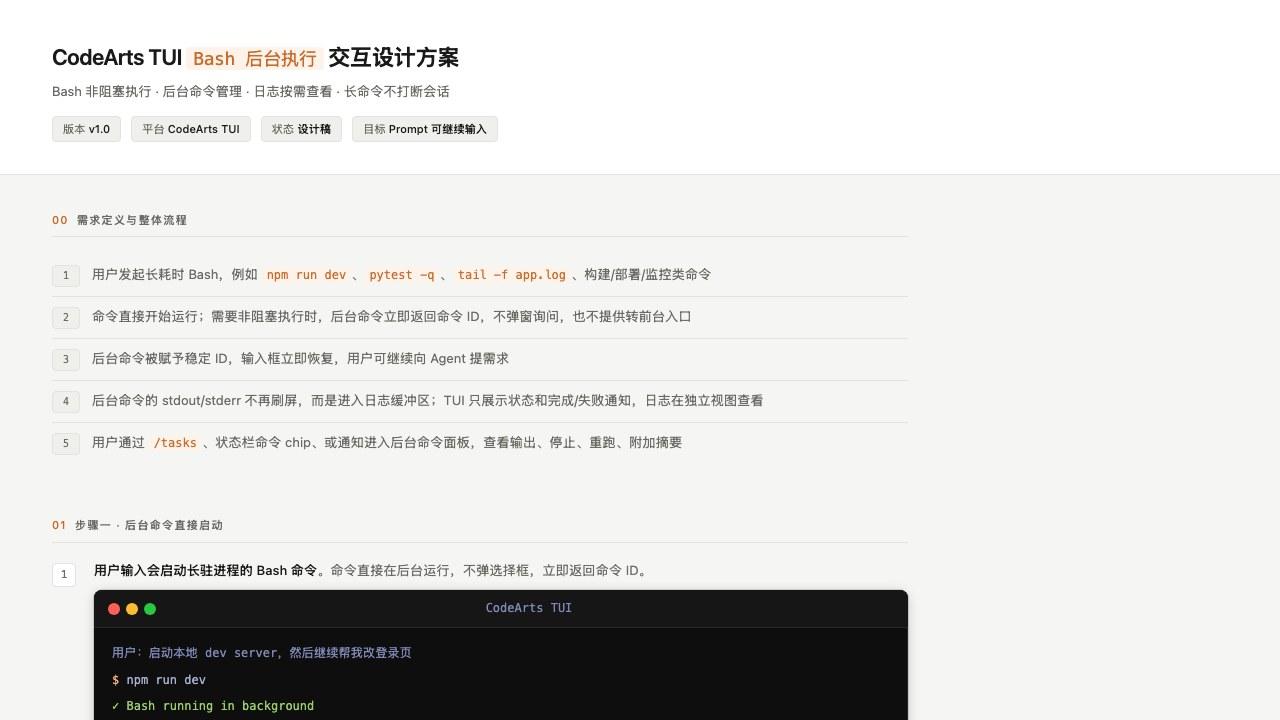
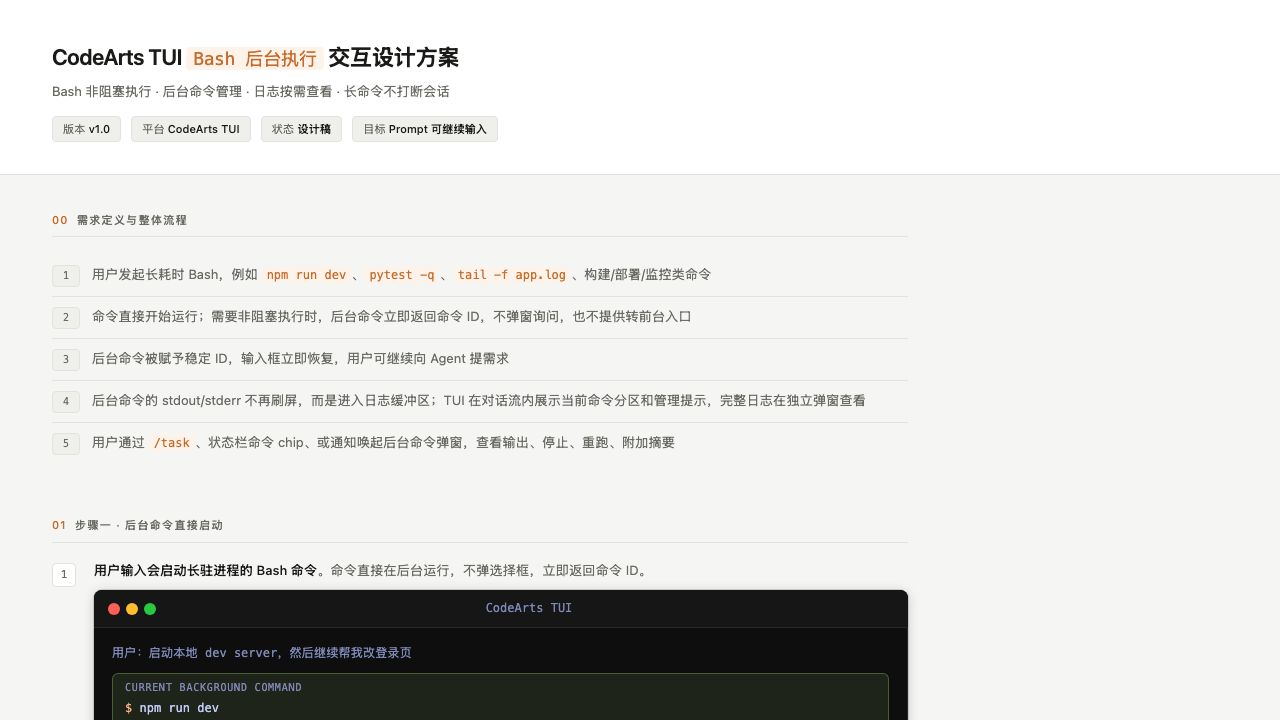
Refine Bash background command TUI panels

Changed region(s): [[0.1562, 0.55, 0.6875, 0.6417], [0.0938, 0.9167, 0.25, 1.0]]

diff --git a/codearts-bash-background-design.html b/codearts-bash-background-design.html
@@ -201,6 +201,7 @@
   .tui-dot.g { background:#28c840; }
   .tui-wt { flex:1; text-align:center; font-size:12px; color:var(--t-dim); }
   .tui-main { display:flex; min-height:272px; }
+  .tui-main { position:relative; }
   .tui-msgs {
     flex:1;
     min-width:0;
@@ -255,6 +256,119 @@
   .tc-blue { color:var(--t-blue); }
   .tc-purple { color:var(--t-purple); }
   .tm-gap { height:5px; }
+  .t-panel {
+    border:1px solid var(--t-border2);
+    background:var(--t-bg3);
+    border-radius:6px;
+    padding:9px 12px;
+    margin:4px 0 8px;
+  }
+  .t-panel.command {
+    background:#1f241b;
+    border-color:rgba(158,206,106,.34);
+  }
+  .t-panel.hint {
+    background:#171d2b;
+    border-color:rgba(92,156,245,.32);
+  }
+  .t-panel.warn {
+    background:#262116;
+    border-color:rgba(224,175,104,.34);
+  }
+  .t-panel.danger {
+    background:#26191f;
+    border-color:rgba(247,118,142,.34);
+  }
+  .t-panel-title {
+    font-size:10px;
+    line-height:1;
+    letter-spacing:.08em;
+    text-transform:uppercase;
+    color:var(--t-dim);
+    margin-bottom:6px;
+  }
+  .t-command-line {
+    font-size:12px;
+    line-height:1.55;
+    color:var(--t-white);
+  }
+  .t-panel-meta {
+    margin-top:4px;
+    font-size:11px;
+    color:var(--t-dim);
+    line-height:1.6;
+  }
+  .task-scrim {
+    position:absolute;
+    inset:0;
+    background:rgba(14,14,14,.66);
+    display:flex;
+    align-items:center;
+    justify-content:center;
+    padding:22px;
+  }
+  .task-modal {
+    width:min(600px,100%);
+    border:1px solid var(--t-border2);
+    background:var(--t-bg2);
+    border-radius:7px;
+    box-shadow:0 18px 48px rgba(0,0,0,.42);
+    overflow:hidden;
+  }
+  .task-modal.small { width:min(620px,100%); }
+  .task-head {
+    display:flex;
+    align-items:center;
+    justify-content:space-between;
+    gap:12px;
+    padding:10px 12px;
+    border-bottom:1px solid var(--t-border);
+    color:var(--t-white);
+    font-size:12px;
+  }
+  .task-sub { color:var(--t-dim); font-size:11px; }
+  .task-body { padding:8px 10px 10px; }
+  .task-row {
+    display:grid;
+    grid-template-columns:42px 1fr 74px 54px;
+    gap:10px;
+    align-items:center;
+    min-height:30px;
+    padding:5px 8px;
+    border-radius:4px;
+    color:var(--t-dim);
+    font-size:12px;
+  }
+  .task-row.head {
+    min-height:24px;
+    color:var(--t-muted);
+    font-size:10px;
+    text-transform:uppercase;
+    letter-spacing:.07em;
+  }
+  .task-row.active {
+    background:rgba(250,178,131,.16);
+    color:var(--t-white);
+  }
+  .task-log {
+    height:150px;
+    overflow:hidden;
+    padding:8px 10px;
+    background:var(--t-bg);
+    border:1px solid var(--t-border);
+    border-radius:5px;
+    margin:8px 10px 10px;
+  }
+  .task-actions {
+    border-top:1px solid var(--t-border);
+    padding:8px 12px;
+    color:var(--t-dim);
+    font-size:11px;
+    display:flex;
+    justify-content:space-between;
+    gap:12px;
+    flex-wrap:wrap;
+  }
   .t-cursor {
     display:inline-block;
     width:7px;
@@ -373,11 +487,11 @@
       </div>
       <div class="flow-row">
         <div class="flow-n">4</div>
-        <div class="flow-b">后台命令的 stdout/stderr 不再刷屏，而是进入日志缓冲区；TUI 只展示状态和完成/失败通知，日志在独立视图查看</div>
+        <div class="flow-b">后台命令的 stdout/stderr 不再刷屏，而是进入日志缓冲区；TUI 在对话流内展示当前命令分区和管理提示，完整日志在独立弹窗查看</div>
       </div>
       <div class="flow-row">
         <div class="flow-n">5</div>
-        <div class="flow-b">用户通过 <code>/tasks</code>、状态栏命令 chip、或通知进入后台命令面板，查看输出、停止、重跑、附加摘要</div>
+        <div class="flow-b">用户通过 <code>/task</code>、状态栏命令 chip、或通知唤起后台命令弹窗，查看输出、停止、重跑、附加摘要</div>
       </div>
     </div>
   </div>
@@ -396,16 +510,21 @@
           <div class="tui-main single">
             <div class="tui-msgs">
               <div class="tm tc-dim">用户：启动本地 dev server，然后继续帮我改登录页</div>
-              <div class="tm"><span class="tc-orange">$</span> npm run dev</div>
-              <div class="tm tc-green">✓ Bash running in background</div>
-              <div class="tm tc-dim">  #12  npm run dev  running  0s</div>
-              <div class="tm tc-dim">  Output is being recorded. Use /tasks to view or stop it.</div>
+              <div class="t-panel command">
+                <div class="t-panel-title">Current background command</div>
+                <div class="t-command-line"><span class="tc-orange">$</span> npm run dev</div>
+                <div class="t-panel-meta"><span class="tc-green">✓ running</span> · #12 · 0s · output is being recorded</div>
+              </div>
+              <div class="t-panel hint">
+                <div class="t-panel-title">Manage</div>
+                <div class="t-command-line">Use <span class="tc-blue">/task</span> to view logs, stop, rerun, or attach summary.</div>
+              </div>
             </div>
           </div>
           <div class="tui-input"><div class="tui-iline">❯ 启动 dev server，然后继续改登录页<span class="t-cursor"></span></div></div>
           <div class="tui-status">
             <div class="tui-sl"><span class="agent-lbl">Agent</span><span>Bash 命令已启动</span></div>
-            <div class="tui-sr"><span>无弹窗</span><span>不中断自动执行</span></div>
+            <div class="tui-sr"><span>启动不弹窗</span><span>管理用 /task</span></div>
           </div>
         </div>
         <div class="step-note">原则：命令启动和后台化不增加额外确认层；只有危险命令、权限升级、外部副作用等安全类决策仍需确认。</div>
@@ -426,9 +545,15 @@
           </div>
           <div class="tui-main single">
             <div class="tui-msgs">
-              <div class="tm tc-green">✓ Bash running in background</div>
-              <div class="tm tc-dim">  #12  npm run dev  running  18s</div>
-              <div class="tm tc-dim">  Output is being recorded.</div>
+              <div class="t-panel command">
+                <div class="t-panel-title">Current background command</div>
+                <div class="t-command-line"><span class="tc-orange">$</span> npm run dev</div>
+                <div class="t-panel-meta"><span class="tc-green">✓ running</span> · #12 · 18s · output recorded in buffer</div>
+              </div>
+              <div class="t-panel hint">
+                <div class="t-panel-title">Management hint</div>
+                <div class="t-command-line">Open <span class="tc-blue">/task</span> for output, stop, rerun, and attach summary.</div>
+              </div>
               <div class="tm-gap"></div>
               <div class="tm tc-dim">Agent：服务已在后台运行。我继续检查登录页结构。</div>
               <div class="tm"><span class="tc-orange">$</span> sed -n '1,220p' src/Login.tsx</div>
@@ -437,7 +562,7 @@
           <div class="tui-input"><div class="tui-iline">❯ 继续，把登录按钮状态也整理一下<span class="t-cursor"></span></div></div>
           <div class="tui-status">
             <div class="tui-sl"><span class="agent-lbl">Bash</span><span>#12 running</span></div>
-            <div class="tui-sr"><span><span class="t-kbd">/tasks</span> 查看</span><span><span class="t-kbd">Ctrl+C</span> 仅中断当前前台输入</span></div>
+            <div class="tui-sr"><span><span class="t-kbd">/task</span> 管理</span><span><span class="t-kbd">Ctrl+C</span> 仅中断当前前台输入</span></div>
           </div>
         </div>
         <div class="step-note">关键点：<b>Ctrl+C 不默认杀后台命令</b>。停止后台命令必须从命令列表或独立详情视图明确执行，避免误杀 dev server 或部署命令。</div>
@@ -446,11 +571,11 @@
   </div>
 
   <div class="section">
-    <div class="section-title"><span class="num">03</span> &nbsp;步骤三 · 后台命令列表与独立日志视图</div>
+    <div class="section-title"><span class="num">03</span> &nbsp;步骤三 · /task 弹窗与独立日志视图</div>
     <div class="step">
       <div class="step-num">3</div>
       <div class="step-content">
-        <div class="step-label"><b>用户输入 <code>/tasks</code> 或点击状态栏命令 chip</b>，打开后台命令列表。列表只负责浏览命令状态；选择命令后进入独立日志视图。</div>
+        <div class="step-label"><b>用户输入 <code>/task</code> 或点击状态栏命令 chip</b>，覆盖式打开后台命令弹窗。弹窗不写入对话流，列表负责浏览状态，选择命令后在弹窗内切到日志视图。</div>
         <div class="tui-wrap">
           <div class="tui-bar">
             <div class="tui-dots"><span class="tui-dot r"></span><span class="tui-dot y"></span><span class="tui-dot g"></span></div>
@@ -458,17 +583,28 @@
           </div>
           <div class="tui-main single">
             <div class="tui-msgs">
-              <div class="tm"><span class="tc-orange">❯</span> /tasks</div>
-              <div class="tm tc-white">Background commands</div>
-              <div class="tm tc-dim">────────────────────────────────────────────────────────</div>
-              <div class="tm tc-orange">› #12  npm run dev        running  04:28</div>
-              <div class="tm tc-dim">  #11  pytest -q          failed   01:12</div>
-              <div class="tm tc-dim">  #10  pnpm build         done     00:46</div>
-              <div class="tm tc-dim">────────────────────────────────────────────────────────</div>
-              <div class="tm tc-dim">Enter view output · A attach summary · S stop · R rerun · Esc back</div>
+              <div class="tm tc-dim">Agent：我继续整理登录页错误态。</div>
+              <div class="tm tc-dim">用户输入 /task 后，当前对话流保持在后方，不插入命令列表。</div>
+            </div>
+            <div class="task-scrim">
+              <div class="task-modal">
+                <div class="task-head">
+                  <span>Background commands</span>
+                  <span class="task-sub">/task · 3 commands</span>
+                </div>
+                <div class="task-body">
+                  <div class="task-row head"><span>ID</span><span>Command</span><span>Status</span><span>Time</span></div>
+                  <div class="task-row active"><span class="tc-orange">#12</span><span>npm run dev</span><span class="tc-green">running</span><span>04:28</span></div>
+                  <div class="task-row"><span>#11</span><span>pytest -q</span><span class="tc-red">failed</span><span>01:12</span></div>
+                  <div class="task-row"><span>#10</span><span>pnpm build</span><span class="tc-green">done</span><span>00:46</span></div>
+                </div>
+                <div class="task-actions">
+                  <span>Enter logs</span><span>A attach summary</span><span>S stop</span><span>R rerun</span><span>Esc close</span>
+                </div>
+              </div>
             </div>
           </div>
-          <div class="tui-input"><div class="tui-iline">❯ /tasks<span class="t-cursor"></span></div></div>
+          <div class="tui-input"><div class="tui-iline">❯ /task<span class="t-cursor"></span></div></div>
           <div class="tui-status">
             <div class="tui-sl"><span class="agent-lbl">Bash</span><span>命令列表</span></div>
             <div class="tui-sr"><span>#12 selected</span><span>3 total</span></div>
@@ -477,20 +613,29 @@
         <div class="tui-wrap" style="margin-top:16px;">
           <div class="tui-bar">
             <div class="tui-dots"><span class="tui-dot r"></span><span class="tui-dot y"></span><span class="tui-dot g"></span></div>
-            <div class="tui-wt">CodeArts TUI · Bash / #12 / logs</div>
+            <div class="tui-wt">CodeArts TUI · /task / #12 / logs</div>
           </div>
           <div class="tui-main single">
             <div class="tui-msgs">
-              <div class="tm"><span class="tc-orange">❯</span> /tasks #12 logs</div>
-              <div class="tm tc-white">#12  npm run dev  running  04:28</div>
-              <div class="tm tc-dim">────────────────────────────────────────────────────────</div>
-              <div class="tm"><span class="tc-dim">00:01</span>  VITE v6.1.0 ready in 428 ms</div>
-              <div class="tm"><span class="tc-dim">00:03</span>  GET /src/main.tsx 200</div>
-              <div class="tm"><span class="tc-dim">00:07</span>  hmr update /src/Login.tsx</div>
-              <div class="tm"><span class="tc-dim">00:12</span>  watching files ...</div>
-              <div class="tm"><span class="tc-dim">04:28</span>  process still running</div>
-              <div class="tm tc-dim">────────────────────────────────────────────────────────</div>
-              <div class="tm tc-dim">Esc back · A attach summary · S stop command</div>
+              <div class="tm tc-dim">后方仍是原对话流；日志详情在 /task 弹窗内切换。</div>
+            </div>
+            <div class="task-scrim">
+              <div class="task-modal small">
+                <div class="task-head">
+                  <span>#12 npm run dev</span>
+                  <span class="task-sub">running · 04:28</span>
+                </div>
+                <div class="task-log">
+                  <div class="tm"><span class="tc-dim">00:01</span>  VITE v6.1.0 ready in 428 ms</div>
+                  <div class="tm"><span class="tc-dim">00:03</span>  GET /src/main.tsx 200</div>
+                  <div class="tm"><span class="tc-dim">00:07</span>  hmr update /src/Login.tsx</div>
+                  <div class="tm"><span class="tc-dim">00:12</span>  watching files ...</div>
+                  <div class="tm"><span class="tc-dim">04:28</span>  process still running</div>
+                </div>
+                <div class="task-actions">
+                  <span>Esc back to list</span><span>A attach summary</span><span>S stop command</span>
+                </div>
+              </div>
             </div>
           </div>
           <div class="tui-input"><div class="tui-iline">❯ <span class="t-cursor"></span></div></div>
@@ -499,7 +644,7 @@
             <div class="tui-sr"><span><span class="t-kbd">Esc</span> 返回</span><span><span class="t-kbd">S</span> stop</span></div>
           </div>
         </div>
-        <div class="step-note">命令列表和日志详情分开：列表用于快速扫描，日志视图用于阅读完整输出，不把日志嵌在表格或对话流中。</div>
+        <div class="step-note">命令列表和日志详情分开，但都在 <code>/task</code> 弹窗里完成：列表用于快速扫描，日志视图用于阅读完整输出，不把列表或日志塞进对话流。</div>
       </div>
     </div>
   </div>
@@ -520,9 +665,11 @@
               <div class="tm"><span class="tc-orange">$</span> pytest tests/e2e --headed</div>
               <div class="tm tc-dim">collecting tests/login.spec.ts ...</div>
               <div class="tm tc-dim">chromium started · running login flow</div>
-              <div class="tm tc-yellow">● Bash has been running for 15s</div>
-              <div class="tm tc-dim">  Press Ctrl+B to run it in the background.</div>
-              <div class="tm tc-dim">  It will keep running in front until you do.</div>
+              <div class="t-panel warn">
+                <div class="t-panel-title">Long-running foreground command</div>
+                <div class="t-command-line"><span class="tc-yellow">●</span> Bash has been running for 15s</div>
+                <div class="t-panel-meta">Press <span class="tc-white">Ctrl+B</span> to send it to background. It keeps running in front until you do.</div>
+              </div>
             </div>
           </div>
           <div class="tui-input"><div class="tui-iline">❯ 继续检查登录页截图差异<span class="t-cursor"></span></div></div>
@@ -542,7 +689,7 @@
       <div class="step">
         <div class="step-num">5a</div>
         <div class="step-content">
-          <div class="step-label"><b>完成时不打断当前输入</b>，只在当前对话流中插入轻量通知，并允许一键把摘要附加给 Agent。</div>
+          <div class="step-label"><b>完成时不打断当前输入</b>，在当前对话流中插入轻量信息分区，并允许一键把摘要附加给 Agent。</div>
           <div class="tui-wrap">
           <div class="tui-bar">
             <div class="tui-dots"><span class="tui-dot r"></span><span class="tui-dot y"></span><span class="tui-dot g"></span></div>
@@ -551,9 +698,11 @@
             <div class="tui-main single">
               <div class="tui-msgs">
                 <div class="tm tc-dim">Agent：我正在整理登录页错误态。</div>
-                <div class="tm tc-green">✓ Background command completed</div>
-                <div class="tm tc-dim">  #10  pnpm build  done  46s</div>
-                <div class="tm tc-dim">  dist/ generated. Press A to attach summary.</div>
+                <div class="t-panel command">
+                  <div class="t-panel-title">Background command completed</div>
+                  <div class="t-command-line"><span class="tc-green">✓</span> #10 pnpm build</div>
+                  <div class="t-panel-meta">done · 46s · dist/ generated · Press A to attach summary</div>
+                </div>
                 <div class="tm tc-dim">用户仍可继续输入，通知不会抢焦点。</div>
               </div>
             </div>
@@ -576,10 +725,15 @@
           </div>
             <div class="tui-main single">
               <div class="tui-msgs">
-                <div class="tm tc-red">✗ Background command failed</div>
-                <div class="tm tc-dim">  #11  pytest -q  failed  01:12</div>
-                <div class="tm tc-dim">  2 failed · LoginButton disabled state mismatch</div>
-                <div class="tm tc-dim">  Enter view output · A attach summary · R rerun</div>
+                <div class="t-panel danger">
+                  <div class="t-panel-title">Background command failed</div>
+                  <div class="t-command-line"><span class="tc-red">✗</span> #11 pytest -q</div>
+                  <div class="t-panel-meta">failed · 01:12 · 2 failed · LoginButton disabled state mismatch</div>
+                </div>
+                <div class="t-panel hint">
+                  <div class="t-panel-title">Next actions</div>
+                  <div class="t-command-line">Enter view logs · A attach summary · R rerun · /task manage</div>
+                </div>
               </div>
             </div>
             <div class="tui-input"><div class="tui-iline">❯ A<span class="t-cursor"></span></div></div>
@@ -606,7 +760,7 @@
           <tr><td>前台转后台</td><td>前台 Bash 执行超过 15 秒仍未结束，且进程仍存活或持续输出</td><td>只提示可按 <span class="kbd">Ctrl+B</span> 转入后台，不自动切换</td></tr>
           <tr><td>日志策略</td><td>stdout/stderr 进入输出缓冲；列表不展示输出，详情视图按需读取</td><td>按 <span class="kbd">Enter</span> 进入独立输出视图</td></tr>
           <tr><td>上下文策略</td><td>默认只把摘要给 Agent；完整输出需用户确认附加</td><td>按 <span class="kbd">A</span> attach summary，避免污染上下文</td></tr>
-          <tr><td>中断规则</td><td><span class="kbd">Ctrl+C</span> 只取消当前前台输入，不杀后台命令</td><td>停止命令必须在 <code>/tasks</code> 里按 <span class="kbd">S</span> 二次确认</td></tr>
+          <tr><td>中断规则</td><td><span class="kbd">Ctrl+C</span> 只取消当前前台输入，不杀后台命令</td><td>停止命令必须在 <code>/task</code> 弹窗里按 <span class="kbd">S</span> 二次确认</td></tr>
           <tr><td>资源保护</td><td>限制同时运行数、空闲时长和最大运行时间</td><td>超限时命令状态变黄，提示清理或延长</td></tr>
           <tr><td>危险命令</td><td>涉及删除、部署、写系统路径、外网传输等仍走原权限确认</td><td>后台执行不降低安全门槛</td></tr>
         </tbody>

diff --git a/AGENTS.md b/AGENTS.md
@@ -468,6 +468,7 @@ grep -n "id=\"s-m" file.html | head    # 快速列出所有 section
 
 | commit | 内容 |
 |---|---|
+| *(2026-08-27)* | `codearts-bash-background-design.html` 按产品反馈从“纯文字输出”调整为真实 TUI 信息分区：运行中的后台命令使用带底色的 Current background command 分区，旁边提供 `/task` 管理提示；`/task` 唤起后台命令覆盖式弹窗，列表与日志详情不再写入对话流；完成/失败/15s 提示也改为轻量信息分区，并刷新 GitHub Pages 缩略图。 |
 | *(2026-08-25)* | 新增个人 Codex Skill `~/.codex/skills/tui-interaction-prototype`：将“产品需求 → TUI 交互设计方案 HTML”的方法沉淀为可复用流程，内含需求场景抽取、真实 TUI 能力约束、弹窗克制、状态/数据模型、视觉校验和 GitHub Pages 缩略图更新指引；参考现有 `/model`、`/lsp-toggle`、`/RunMode`、`/codebase` 与 Bash 后台命令方案。 |
 | *(2026-08-25)* | `codearts-bash-background-design.html` 修复纯文本终端 mockup 对比度：`.tm` 默认使用终端正文色，`--t-dim` 从过暗的 `#565f89` 提亮为 `#7f88b7`，解决日志时间戳后方正文在黑底上看不清的问题，并刷新缩略图。 |
 | *(2026-08-25)* | `codearts-bash-background-design.html` 按真实终端能力去卡片化：TUI mockup 内不再使用 alert/card/panel/table 视觉组件，改为纯文本行、缩进、分隔线和 ANSI 色感；保留 `/tasks` 入口，后台命令列表与日志详情均用终端文本呈现。 |
